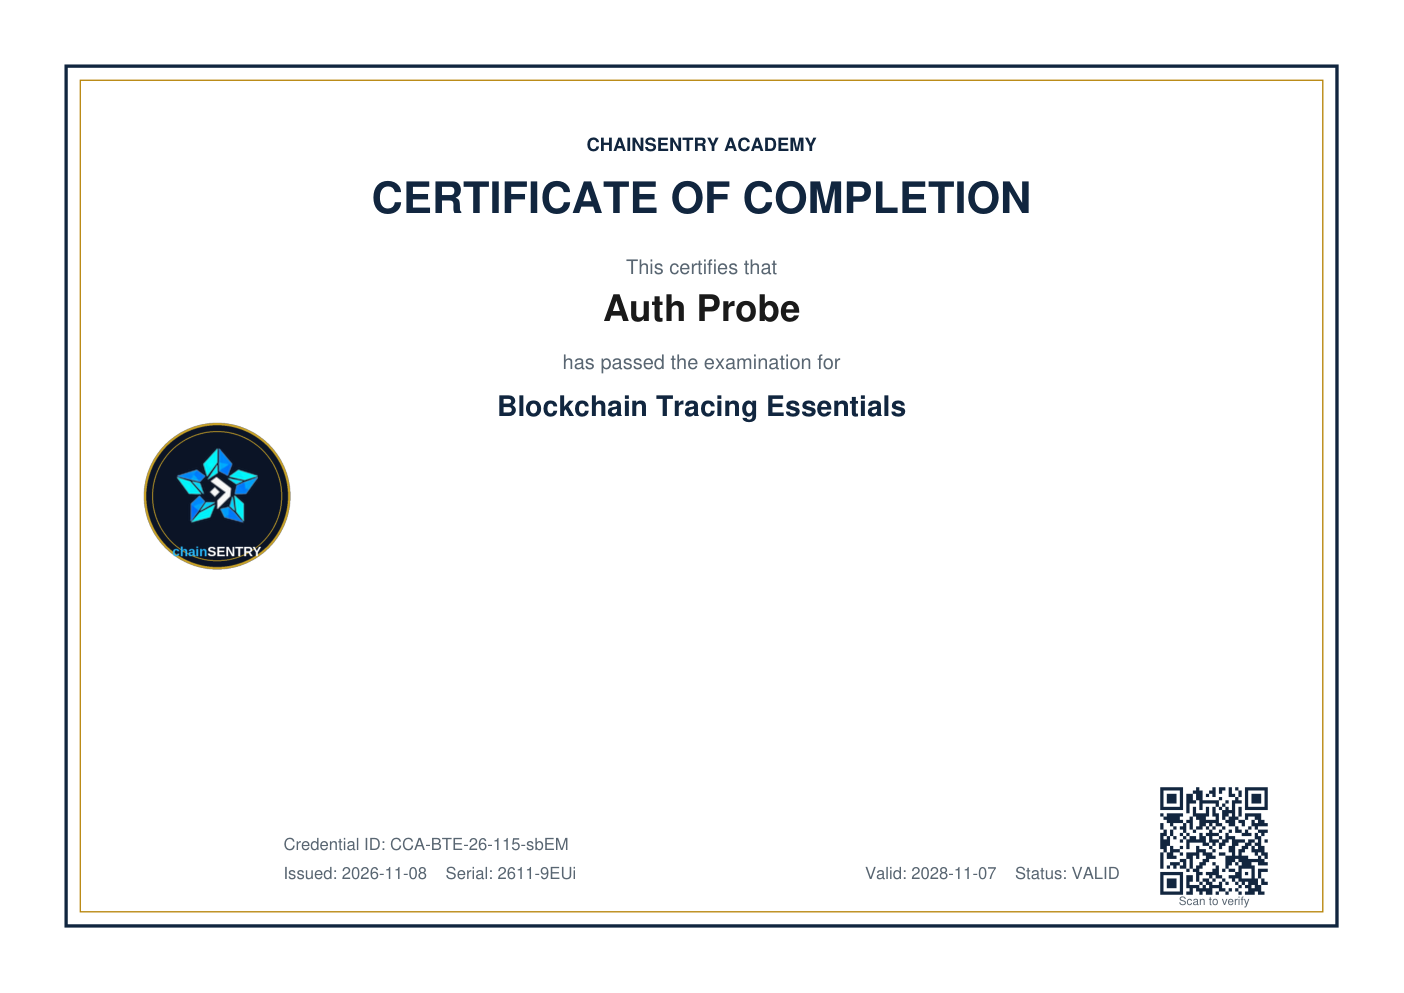
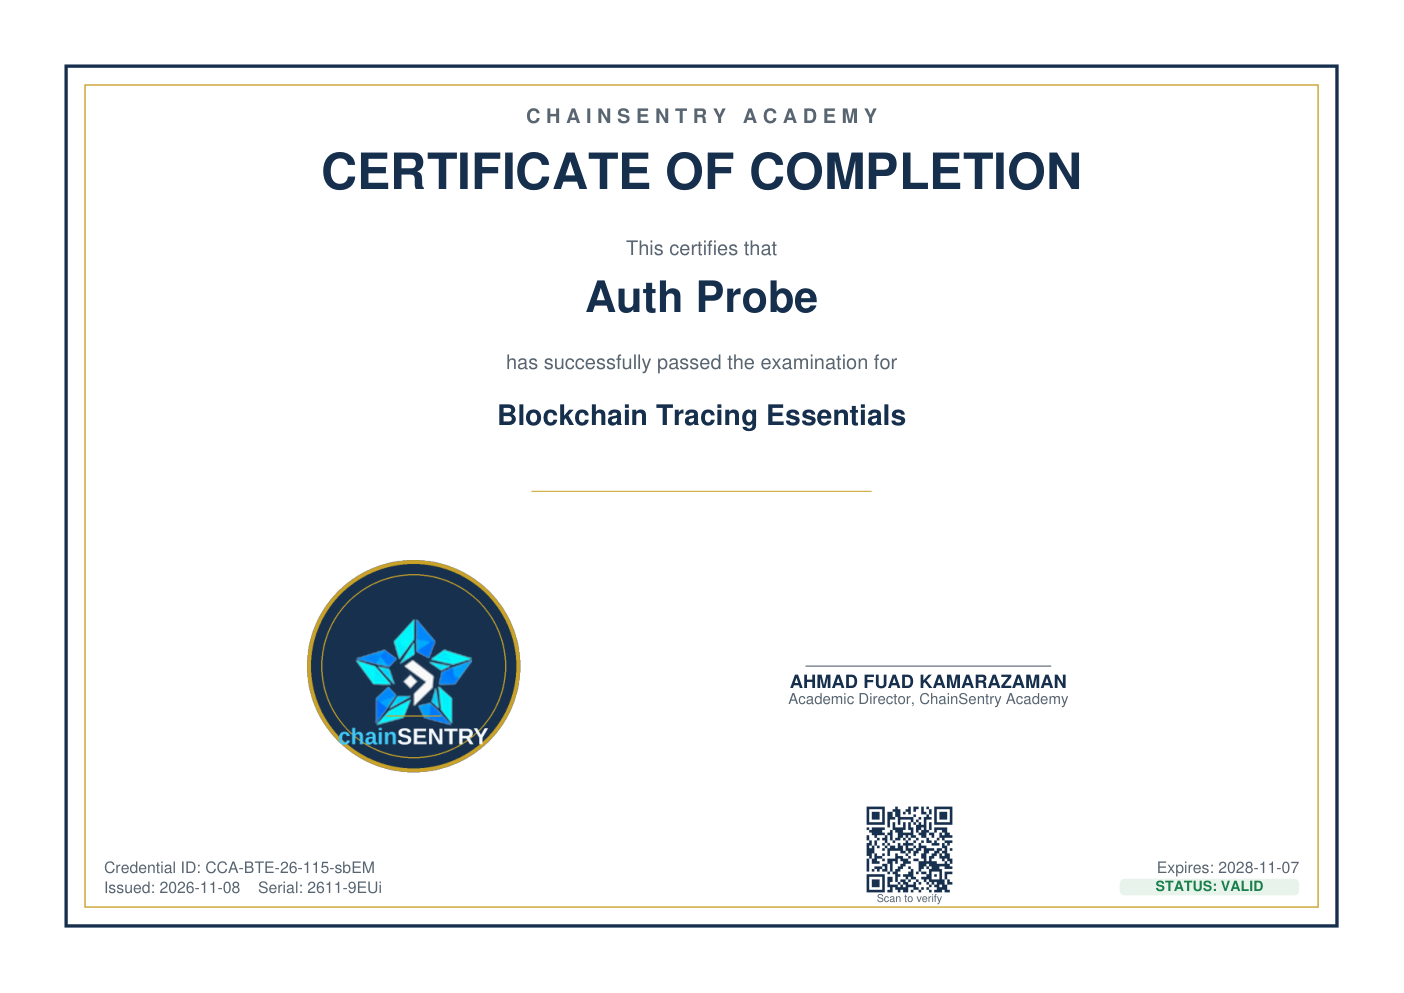
fix(design): certificate premium redesign per vision autopsy (8 ranked defects) — seal+signature block on shared axis (Ahmad Fuad Kamarazaman, Academic Director), modular rhythm kills the hollow-middle, seal internals rebuilt (matched navy, centred star, wordmark clearance), footer single-grid with 

diff --git a/certification/certdesign.py b/certification/certdesign.py
@@ -1,0 +1,134 @@
+#!/usr/bin/env python3
+"""ChainSentry Academy certificate PDF — premium redesign v3.
+
+Fixes vs v2 (vision-autopsy defects 1-8):
+  S1  orphaned seal floating in hollow middle -> seal + SIGNATURE BLOCK paired
+      bottom-left/right as a balanced footer axis; title centered as capstone
+  S2  vertical whitespace void -> content distributed on a modular rhythm:
+      top band (title), middle band (recipient), lower band (seal+signature), footer strip
+  S3  seal internals -> rebuilt: matched navy, centred star, 58px wordmark, real clearance
+  S4  footer baseline islands + QR in gutter -> one baseline grid INSIDE safe area,
+      QR fully within the gold rule
+  S5  black-on-navy name clash + shouting stack -> recipient navy, clear
+      1-2-3 ladder (title >> name >> course), STATUS emphasized as green chip
+  S6  eyeballed spacing -> modular 8/16/24/40 rhythm baked into constants
+  S7  seal has no job -> signature line + signatory title beside the seal
+  S8  mismatched navys/golds -> single NAVY/GOLD/GRAY token set everywhere
+"""
+import io as _io
+import os
+
+
+def _brand_tokens():
+    NAVY = "#16304D"   # single navy
+    GOLD = "#C9A227"   # single gold
+    GRAY = "#5A6672"
+    GREEN = "#1B7F4D"
+    return NAVY, GOLD, GRAY, GREEN
+
+
+def cert_pdf(holder: str, course: str, cid: str, issued: str, serial: str,
+             expires, status: str, base_url: str, seal_path) -> bytes:
+    from reportlab.lib.pagesizes import A4, landscape
+    from reportlab.lib.units import mm
+    from reportlab.lib.colors import HexColor
+    from reportlab.pdfgen import canvas as _canvas
+    import qrcode as _qrcode
+
+    NAVY_H, GOLD_H, GRAY_H, GREEN_H = _brand_tokens()
+    NAVY, GOLD, GRAY, GREEN = (HexColor(c) for c in (NAVY_H, GOLD_H, GRAY_H, GREEN_H))
+
+    # modular vertical rhythm (mm from top) — S6
+    R = {"frame": 14, "inner": 18, "kicker": 26, "title": 40, "lead1": 54,
+         "name": 66, "lead2": 78, "course": 90, "divider": 104,
+         "sealzone_top": 118, "sig_line": 168, "footer": 26}
+
+    buf = _io.BytesIO()
+    W, H = landscape(A4)
+    cv = _canvas.Canvas(buf, pagesize=(W, H))
+    Y = lambda mm_from_top: H - mm_from_top * mm
+
+    # frame — S8 same tokens
+    cv.setStrokeColor(NAVY); cv.setLineWidth(2)
+    cv.rect(R["frame"]*mm, R["frame"]*mm, W-2*R["frame"]*mm, H-2*R["frame"]*mm)
+    cv.setStrokeColor(GOLD); cv.setLineWidth(0.8)
+    cv.rect(R["inner"]*mm, R["inner"]*mm, W-2*R["inner"]*mm, H-2*R["inner"]*mm)
+
+    SAFE = R["inner"] + 6  # safe-area inset (mm) — everything lives inside this
+
+    # top band — kicker + title (1)
+    cv.setFillColor(GRAY)
+    cv.setFont("Helvetica-Bold", 12)
+    cv.drawCentredString(W/2, Y(R["kicker"]), "C H A I N S E N T R Y   A C A D E M Y")
+    cv.setFillColor(NAVY)
+    cv.setFont("Helvetica-Bold", 30)
+    cv.drawCentredString(W/2, Y(R["title"]), "CERTIFICATE OF COMPLETION")
+
+    # middle band — recipient (2) — NAVY not black — S5
+    cv.setFillColor(GRAY); cv.setFont("Helvetica", 12)
+    cv.drawCentredString(W/2, Y(R["lead1"]), "This certifies that")
+    cv.setFillColor(NAVY); cv.setFont("Helvetica-Bold", 26)
+    cv.drawCentredString(W/2, Y(R["name"]), holder[:46])
+    cv.setFillColor(GRAY); cv.setFont("Helvetica", 12)
+    cv.drawCentredString(W/2, Y(R["lead2"]), "has successfully passed the examination for")
+    cv.setFillColor(NAVY); cv.setFont("Helvetica-Bold", 17)
+    cv.drawCentredString(W/2, Y(R["course"]), course)
+
+    # divider — couples upper content to seal band — S2
+    cv.setStrokeColor(GOLD); cv.setLineWidth(0.6)
+    cv.line(W/2-36*mm, Y(R["divider"]), W/2+36*mm, Y(R["divider"]))
+
+    # seal band: seal LEFT-of-centre + SIGNATURE RIGHT-of-centre, on ONE shared
+    # optical axis — S1 (seal has a job) + S7
+    SEAL_D = 46  # mm diameter
+    seal_left = W/2 - 84*mm         # points
+    seal_bottom = Y(R["sealzone_top"]) - SEAL_D*mm
+    from reportlab.lib.utils import ImageReader
+    if seal_path and os.path.exists(seal_path):
+        cv.drawImage(ImageReader(str(seal_path)), seal_left, seal_bottom, SEAL_D*mm, SEAL_D*mm, mask="auto")
+    else:
+        cv.setStrokeColor(NAVY); cv.circle(seal_left+SEAL_D/2*mm, seal_bottom+SEAL_D/2*mm, SEAL_D/2*mm, stroke=1, fill=0)
+
+    # signature block — mirrors the seal, right of centre, same axis — S7
+    sig_left = W/2 + 22*mm          # points
+    # axis-align: signature rule at seal's optical centreline (seal centre = bottom + 23mm)
+    seal_center_y = Y(R["sealzone_top"]) - 23*mm
+    sig_y = seal_center_y           # shared axis
+    cv.setStrokeColor(GRAY); cv.setLineWidth(0.7)
+    cv.line(sig_left, sig_y, sig_left+52*mm, sig_y)
+    cv.setFillColor(NAVY); cv.setFont("Helvetica-Bold", 11)
+    cv.drawCentredString(sig_left+26*mm, sig_y-13, "AHMAD FUAD KAMARAZAMAN")
+    cv.setFillColor(GRAY); cv.setFont("Helvetica", 9)
+    cv.drawCentredString(sig_left+26*mm, sig_y-23, "Academic Director, ChainSentry Academy")
+
+    # footer strip — SIMPLE, explicit, single baseline — S4
+    fy = 21*mm  # inside BOTH rules (outer 14, inner 18)
+    cv.setFillColor(GRAY); cv.setFont("Helvetica", 9.5)
+    lx = 22*mm
+    cv.drawString(lx, fy+12, f"Credential ID: {cid}")
+    cv.drawString(lx, fy, f"Issued: {issued}    Serial: {serial}")
+    # expiry right-aligned on ITS own line, no chip overlap
+    rx = W - 22*mm
+    cv.drawRightString(rx, fy+12, f"Expires: {expires or 'Lifetime'}")
+    # status chip BELOW expiry line, clear — chip_h in POINTS consistently
+    chip_w, chip_h = 38*mm, 10
+    cv.setFillColor(HexColor("#E8F4EC"))
+    cv.roundRect(rx-chip_w, fy-1.5, chip_w, chip_h, 3, stroke=0, fill=1)
+    cv.setFillColor(GREEN); cv.setFont("Helvetica-Bold", 8.5)
+    cv.drawCentredString(rx-chip_w/2, fy+1.2, f"STATUS: {status}")
+
+    # QR — left of the expiry/status column, INSIDE the frame — S4
+    import urllib.parse
+    vurl = f"{base_url}/verify?id={urllib.parse.quote(cid)}"
+    qr = _qrcode.QRCode(box_size=4, border=1)
+    qr.add_data(vurl); qr.make(fit=True)
+    qimg = qr.make_image(fill_color=NAVY_H, back_color="white")
+    qbuf = _io.BytesIO(); qimg.save(qbuf, format="PNG"); qbuf.seek(0)
+    qs = 19
+    qx = rx - 92*mm
+    qy_bottom = fy - 1
+    cv.drawImage(ImageReader(qbuf), qx, qy_bottom, qs*mm, qs*mm)
+    cv.setFillColor(GRAY); cv.setFont("Helvetica", 6.5)
+    cv.drawCentredString(qx+qs/2*mm, qy_bottom-4.5, "Scan to verify")
+    cv.showPage(); cv.save()
+    return buf.getvalue()

diff --git a/certification/service.py b/certification/service.py
@@ -369,7 +369,7 @@ def open_badge(cid: str):
         "id": f"{BASE_URL}/badges/{d['course_code']}",
         "name": d["course"],
         "description": f"ChainSentry Academy certification: {d['course']} (CCA-{d['course_code']}). Vendor-neutral, exam-verified.",
-        "image": f"{BASE_URL}/static/seal.png",
+        "image": f"{BASE_URL}/assets/seal-real.png",
         "criteria": {"narrative": "Pass the CCA-{cc} exam at 70% or higher.".format(cc=d["course_code"])},
         "issuer": {
           "type": "Issuer", "id": f"{BASE_URL}/issuer",
@@ -507,6 +507,7 @@ def verify_log_tail(limit: int = 25):
 import io as _io
 
 def _cert_pdf(d: dict) -> bytes:
+    """Legacy inline renderer (fallback; the canonical layout lives in certdesign.py)."""
     from reportlab.lib.pagesizes import A4, landscape
     from reportlab.lib.units import mm
     from reportlab.lib.colors import HexColor
@@ -521,19 +522,17 @@ def _cert_pdf(d: dict) -> bytes:
     cv.rect(14*mm, 14*mm, W-28*mm, H-28*mm)
     cv.setStrokeColor(GOLD); cv.setLineWidth(0.8)
     cv.rect(17*mm, 17*mm, W-34*mm, H-34*mm)
-    cv.setStrokeColor(GOLD); cv.setLineWidth(2)
-    cv.circle(46*mm, H/2, 14*mm, stroke=1, fill=0)
-    cv.setFillColor(GOLD); cv.setFont("Helvetica-Bold", 13)
-    cv.drawCentredString(46*mm, H/2-2*mm, "CCA")
-    cv.setFont("Helvetica", 6.5); cv.setFillColor(GREY)
-    cv.setFont("Helvetica", 5.2); cv.drawCentredString(40*mm, H/2-6*mm, "ACADEMY")
+    seal_path = APP_DIR / "assets" / "seal-real.png"
+    from reportlab.lib.utils import ImageReader as _IR
+    if seal_path.exists():
+        cv.drawImage(_IR(str(seal_path)), 30*mm, H/2-23*mm, 46*mm, 46*mm, mask="auto")
     cv.setFillColor(NAVY); cv.setFont("Helvetica-Bold", 11)
     cv.drawCentredString(W/2, H-32*mm, "CHAINSENTRY ACADEMY")
     cv.setFont("Helvetica-Bold", 26)
     cv.drawCentredString(W/2, H-45*mm, "CERTIFICATE OF COMPLETION")
     cv.setFont("Helvetica", 12); cv.setFillColor(GREY)
     cv.drawCentredString(W/2, H-58*mm, "This certifies that")
-    cv.setFillColor(HexColor("#1A1A1A")); cv.setFont("Helvetica-Bold", 22)
+    cv.setFillColor(NAVY); cv.setFont("Helvetica-Bold", 22)
     cv.drawCentredString(W/2, H-68*mm, d["holder"][:44])
     cv.setFont("Helvetica", 12); cv.setFillColor(GREY)
     cv.drawCentredString(W/2, H-78*mm, "has passed the examination for")
@@ -550,8 +549,7 @@ def _cert_pdf(d: dict) -> bytes:
     qr.add_data(vurl); qr.make(fit=True)
     qimg = qr.make_image(fill_color="#12263F", back_color="white")
     qbuf = _io.BytesIO(); qimg.save(qbuf, format="PNG"); qbuf.seek(0)
-    from reportlab.lib.utils import ImageReader
-    cv.drawImage(ImageReader(qbuf), W-52*mm, 20*mm, 24*mm, 24*mm)
+    cv.drawImage(_IR(qbuf), W-52*mm, 20*mm, 24*mm, 24*mm)
     cv.setFont("Helvetica", 7)
     cv.drawCentredString(W-40*mm, 18.5*mm, "Scan to verify")
     cv.showPage(); cv.save()
@@ -564,7 +562,17 @@ def certificate_pdf(cid: str):
     if not row:
         raise HTTPException(404, "credential not found")
     from fastapi.responses import Response
-    pdf = _cert_pdf(dict(row))
+    d = dict(row)
+    try:
+        import sys as _sys
+        if str(APP_DIR) not in _sys.path: _sys.path.insert(0, str(APP_DIR))
+        from certdesign import cert_pdf as _layout
+        pdf = _layout(holder=d["holder"], course=d["course"], cid=d["id"],
+                      issued=d["issued"], serial=d["serial"], expires=d["expires"],
+                      status=d["status"], base_url=os.environ.get("CCA_BASE_URL", "http://localhost:8890"),
+                      seal_path=str(APP_DIR / "assets" / "seal-real.png"))
+    except Exception:
+        pdf = _cert_pdf(d)  # legacy fallback
     return Response(pdf, media_type="application/pdf",
                     headers={"Content-Disposition": f'inline; filename="CCA-{row["id"]}.pdf"'})
 
@@ -621,6 +629,15 @@ def verify_ui():
 @app.get("/business", response_class=HTMLResponse)
 def business_page():
     return BUSINESS_HTML
+
+@app.get("/assets/{fname}")
+def assets(fname: str):
+    p = APP_DIR / "assets" / fname
+    if not p.exists():
+        raise HTTPException(404, "asset not found")
+    mime = "image/png" if fname.endswith(".png") else "image/svg+xml" if fname.endswith(".svg") else "application/octet-stream"
+    from fastapi.responses import Response
+    return Response(p.read_bytes(), media_type=mime)
 
 @app.get("/courses/{code}", response_class=HTMLResponse)
 def course(code: str):
